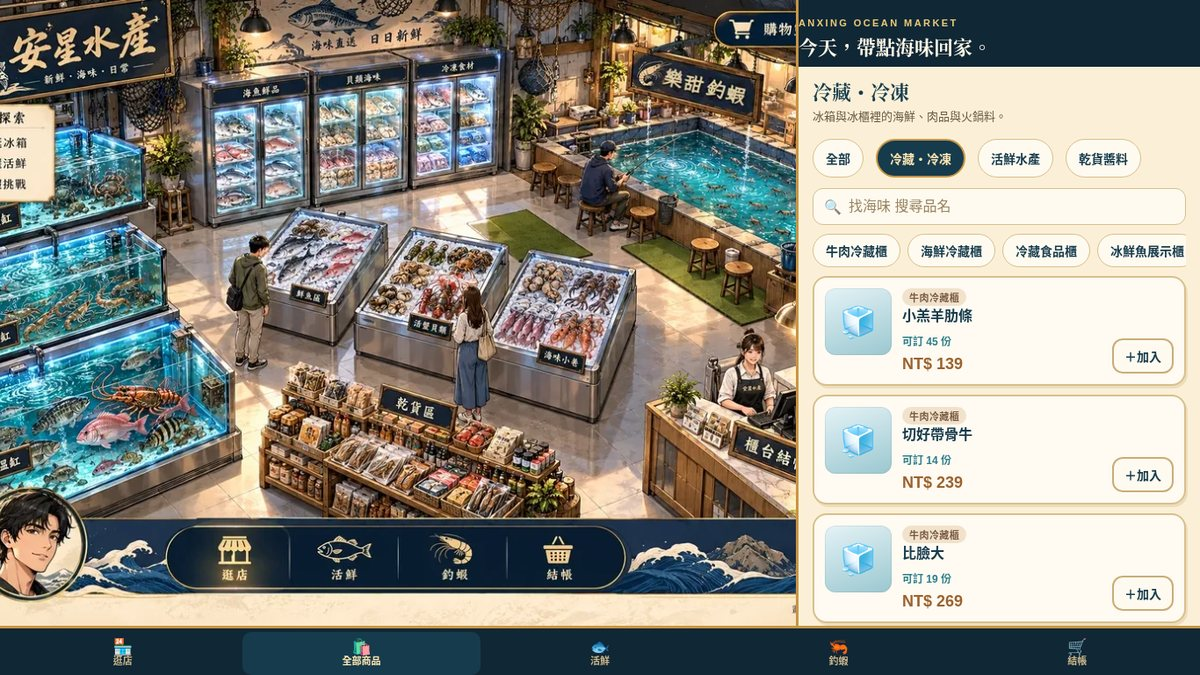
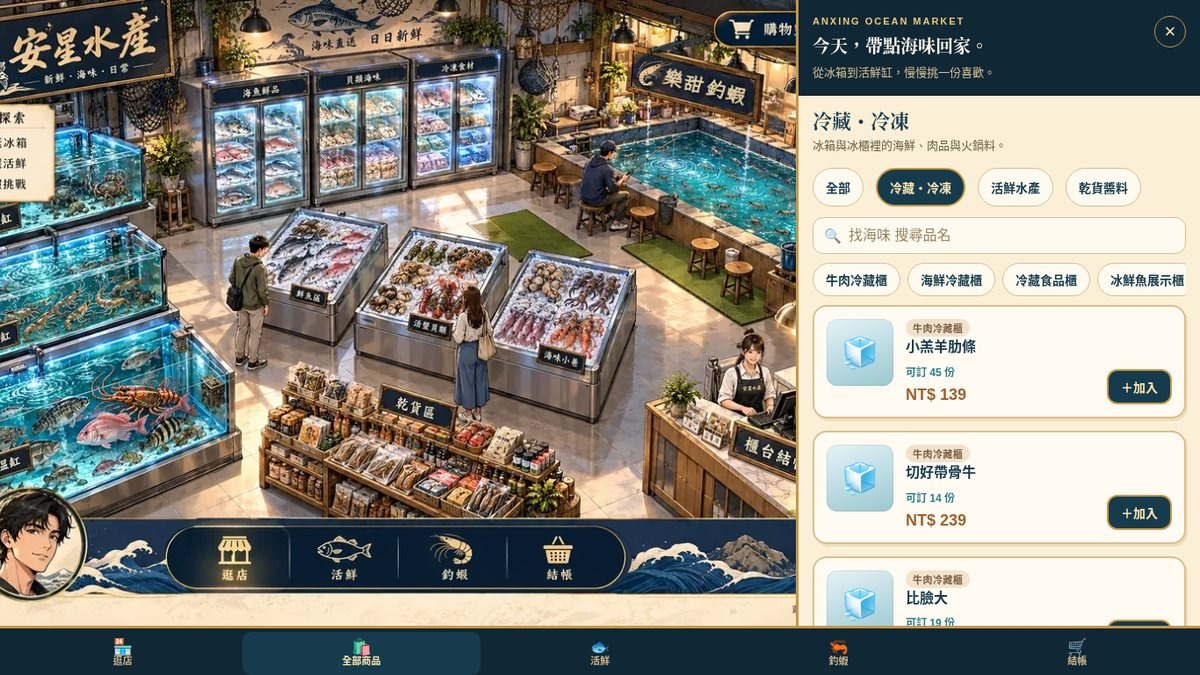
顧客訂購：修正標題列左切、對齊商品列表內距
標題列改為較高的深藍橫幅（加上「從冰箱到活鮮缸，慢慢挑一份喜歡。」與回到店面的 ×），
左右內距與「全部商品」對齊。＋加入改為深藍填色；選魚缸時標題顯示如「06｜常溫缸」。

Changed region(s): [[0.6475, 0.0, 1.0, 0.9333], [0.9558, 0.0311, 0.9867, 0.0622]]

diff --git a/web/src/customer/catalog.css b/web/src/customer/catalog.css
@@ -8,9 +8,12 @@ body:has(.shop-home){overflow:hidden;height:100%}
 .shop-panel.is-on{display:flex;flex:1}
 .shop-home .fullmap{width:100%;height:100%;margin:0}
 
-.panel-hero{flex:0 0 auto;background:#102735;color:#f6e7be;padding:14px 18px 12px}
-.panel-hero .brand{display:block;font-size:11px;letter-spacing:.22em;font-weight:800;color:#e9c877}
-.panel-hero .tagline{margin:6px 0 0;font-family:"Noto Serif TC","Songti TC",serif;font-size:20px;line-height:1.35;color:#fff8e8;font-weight:700}
+.shop header.panel-hero,.shop-home .panel-hero{flex:0 0 auto;display:flex;align-items:flex-start;justify-content:space-between;gap:12px;background:#102735;color:#f6e7be;padding:18px 16px 16px}
+.panel-hero-text{min-width:0;flex:1}
+.shop header.panel-hero .brand,.panel-hero .brand{display:block;font-size:11px;letter-spacing:.18em;font-weight:800;color:#e9c877}
+.shop header.panel-hero .tagline,.panel-hero .tagline{margin:8px 0 0;font-family:"Noto Serif TC","Songti TC",serif;font-size:20px;line-height:1.35;color:#fff8e8;font-weight:700}
+.shop header.panel-hero .hero-sub,.panel-hero .hero-sub{margin:8px 0 0;font-size:13px;line-height:1.5;color:#d4c094;font-weight:400;font-family:inherit}
+.shop-home button.panel-close,.comic button.panel-close{flex:0 0 36px;width:36px;height:36px;min-height:36px;margin:0;padding:0;border-radius:50%;border:1.5px solid #c89543;background:transparent;color:#ffe6b1;font-size:22px;line-height:1;font-weight:400}
 
 .panel-body{flex:1;overflow:auto;-webkit-overflow-scrolling:touch;padding:12px 16px 20px}
 .panel-title{margin:0 0 10px}
@@ -33,8 +36,8 @@ body:has(.shop-home){overflow:hidden;height:100%}
 .unit-tabs button{white-space:nowrap;margin:0;min-height:38px;padding:0 14px;border-radius:999px;font-size:14px;font-weight:700;background:#fffaf0;border:1.5px solid #d8bf8c;color:#163b4d}
 .unit-tabs .active{background:#163b4d;color:#ffe6b1;border-color:#c89543}
 
-.shop-home .menu{display:flex;flex-direction:column;gap:10px}
-.shop-home .card.item{display:flex;align-items:stretch;gap:12px;margin:0;padding:12px;background:#fffaf2;border:2px solid #d8bf8c;border-radius:16px;box-shadow:2px 3px 0 #b7935433}
+.shop-home .menu{display:flex;flex-direction:column;gap:14px}
+.shop-home .card.item{display:flex;align-items:stretch;gap:14px;margin:0;padding:14px;background:#fffaf2;border:2px solid #d8bf8c;border-radius:16px;box-shadow:2px 3px 0 #b7935433}
 .item-thumb{flex:0 0 76px;width:76px;height:76px;border-radius:12px;display:grid;place-items:center;font-size:34px;box-shadow:inset 0 0 0 1px #0001}
 .item-thumb[data-kind=fridge]{background:linear-gradient(160deg,#e4f3f6,#9bc7d0)}
 .item-thumb[data-kind=case]{background:linear-gradient(160deg,#fff1d2,#e0b56a)}
@@ -50,8 +53,8 @@ body:has(.shop-home){overflow:hidden;height:100%}
 .item-meta{display:flex;flex-direction:column;gap:2px}
 .item-meta .avail{font-size:12px;color:#2d7f8a;font-weight:700}
 .item-meta .price{font-size:18px;font-weight:800;color:#9b622e}
-.item-add{margin:0;min-height:40px;padding:0 12px;background:#163b4d;color:#ffe6b1;border:2px solid #c89543;border-radius:12px;font-weight:800;font-size:14px;white-space:nowrap}
-.item-add:disabled{opacity:.45}
+ .shop-home button.item-add,.comic button.item-add{margin:0;min-height:40px;padding:0 14px;background:#163b4d;color:#ffe6b1;border:2px solid #c89543;border-radius:12px;font-weight:800;font-size:14px;white-space:nowrap}
+.shop-home button.item-add:disabled,.comic button.item-add:disabled{opacity:.45}
 .shop-home .item .stepper{margin:0}
 .shop-home .soldout{opacity:.55}
 
@@ -64,14 +67,16 @@ body:has(.shop-home){overflow:hidden;height:100%}
 @media(min-width:860px){
  .shop-shell{display:grid;grid-template-columns:1.15fr minmax(380px,460px);grid-template-rows:1fr auto;height:100svh}
  .shop-map-pane{display:block!important;grid-column:1;grid-row:1;flex:none}
- .shop-panel{display:flex!important;grid-column:2;grid-row:1;flex:none;border-left:3px solid #c89543}
+ .shop-panel{grid-column:2;grid-row:1;flex:none;border-left:3px solid #c89543}
+ .shop-panel.is-on{display:flex!important}
+ .shop-shell:not(:has(.shop-panel.is-on)){grid-template-columns:1fr}
+ .panel-hero .tagline{font-size:22px}
  .shop-dock{grid-column:1/-1;grid-row:2}
  .shop-home .fullmap-title,.shop-home .fullmap-down{display:none}
- .panel-hero .tagline{font-size:22px}
 }
 @media(max-width:859px){
- .panel-hero{padding:12px 16px 10px}
- .panel-hero .tagline{font-size:18px}
+ .shop header.panel-hero,.shop-home .panel-hero{padding:16px 16px 14px}
+ .shop header.panel-hero .tagline,.panel-hero .tagline{font-size:18px}
  .panel-title h2{font-size:20px}
  .item-thumb{flex-basis:68px;width:68px;height:68px;font-size:30px}
 }

diff --git a/web/src/customer/main.tsx b/web/src/customer/main.tsx
@@ -170,7 +170,14 @@ function Shop({origin}:{origin:string}){
  return <div className="shop-shell">
   <div className={"shop-map-pane"+(tab==="browse"?" is-on":"")}>{map}</div>
   <section className={"shop-panel"+(tab==="catalog"||checkout?" is-on":"")} aria-label="商品列表">
-   <header className="panel-hero"><span className="brand">ANXING OCEAN MARKET</span><p className="tagline">今天，帶點海味回家。</p></header>
+   <header className="panel-hero">
+    <div className="panel-hero-text">
+     <span className="brand">ANXING OCEAN MARKET</span>
+     <p className="tagline">今天，帶點海味回家。</p>
+     <p className="hero-sub">從冰箱到活鮮缸，慢慢挑一份喜歡。</p>
+    </div>
+    <button type="button" className="panel-close" aria-label="回到店面" onClick={()=>{setCheckout(false);setTab("browse")}}>×</button>
+   </header>
    <div className="panel-body">
     {!checkout&&filters}
     {listBody}
